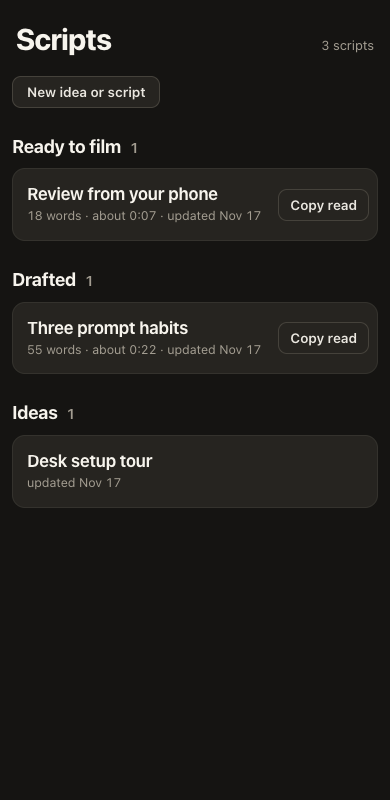
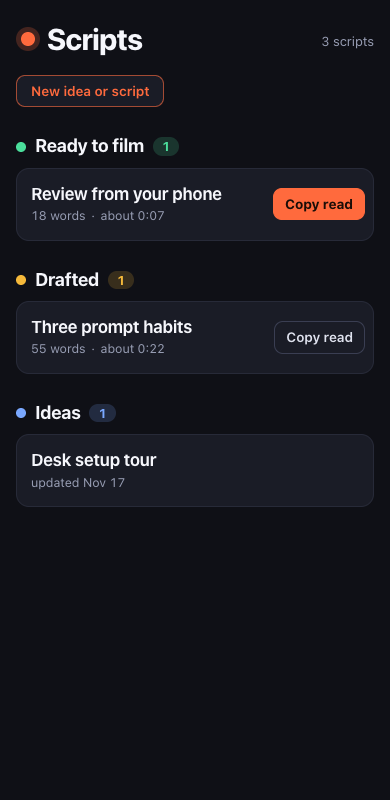
Add color: one accent, a color per status, and tinted notes and edits
The read is larger, statuses are color-coded (green approved, amber
draft, blue idea), and lines with a note or an edit carry a dot and a
tint in place of side stripes. The phone list keeps each script on one
line.

diff --git a/skills/reviewing-scripts/scripts/script_page.py b/skills/reviewing-scripts/scripts/script_page.py
@@ -539,44 +539,52 @@ def tailscale_name():
 CSS = """
 :root {
   color-scheme: light dark;
-  --canvas: light-dark(#f4f2ec, #151412); --rail: light-dark(#fbfaf7, #1d1c19); --card: light-dark(#ffffff, #262420);
-  --card-border: light-dark(#e3e0d8, #34322d); --hair: light-dark(#e0ddd5, #2f2d29); --strong-border: light-dark(#cfcbc0, #45423b);
-  --txt: light-dark(#26241e, #eae7e0); --strong-txt: light-dark(#15140f, #f7f4ed); --mute: light-dark(#6a665d, #a39d91);
-  --soft: light-dark(#ebe8e0, #2a2824); --input-bg: light-dark(#fdfcfa, #1a1916); --focus: light-dark(#26241e, #eae7e0);
-  --danger: light-dark(#a83527, #e08273); --btn-bg: light-dark(#15140f, #f7f4ed); --btn-fg: light-dark(#fbfaf7, #15140f);
-  --pin: light-dark(#8a6400, #e6ae0a); --mark: light-dark(#ffe59a, #5c4a0e); --edit: light-dark(#256b43, #86cfa2);
-  --new: light-dark(#245f9e, #86b8ea); --target: 30px;
-  --lift: 0 10px 28px -18px rgb(0 0 0 / .55);
-  scrollbar-color: var(--strong-border) transparent; accent-color: var(--pin);
+  --canvas: light-dark(#f5f4f0, #0f1016); --rail: light-dark(#fbfaf8, #14151d); --card: light-dark(#ffffff, #1a1c26);
+  --card-border: light-dark(#e2e0da, #272a38); --hair: light-dark(#dedcd5, #232633); --strong-border: light-dark(#c9c6bd, #3a3e52);
+  --txt: light-dark(#23242b, #dfe2ee); --strong-txt: light-dark(#101116, #f6f7fc); --mute: light-dark(#5c6070, #979db3);
+  --soft: light-dark(#eceae4, #1d1f2a); --input-bg: light-dark(#fdfdfb, #11121a); --focus: light-dark(#23242b, #dfe2ee);
+  --accent: light-dark(#cf3d14, #ff6a3d); --on-accent: light-dark(#ffffff, #1a0d07);
+  --go: light-dark(#157347, #4ade9b); --pin: light-dark(#8a6100, #f5b93a); --new: light-dark(#2757c4, #7aa8ff);
+  --edit: var(--go); --danger: light-dark(#a83527, #ff8f7d); --mark: light-dark(#ffe08a, #6b5210);
+  --btn-bg: var(--accent); --btn-fg: var(--on-accent); --role: var(--mute); --target: 30px;
+  --lift: 0 10px 28px -18px rgb(0 0 0 / .6);
+  scrollbar-color: var(--strong-border) transparent; accent-color: var(--accent);
 }
+[data-role="approved"] { --role: var(--go); } [data-role="draft"] { --role: var(--pin); } [data-role="idea"] { --role: var(--new); }
 @media (pointer: coarse) { :root { --target: 44px; } }
 * { box-sizing: border-box; }
-::selection { background: var(--mark); color: var(--strong-txt); }
+::selection { background: color-mix(in oklab, var(--accent) 38%, transparent); color: var(--strong-txt); }
 html { scroll-padding-top: 76px; -webkit-text-size-adjust: 100%; }
 body { margin: 0; background: var(--canvas); color: var(--txt); font: 15px/1.5 system-ui, -apple-system, "Segoe UI", Roboto, Helvetica, sans-serif; overflow-wrap: break-word; -webkit-font-smoothing: antialiased; }
 button, textarea, select { font: inherit; color: inherit; }
 button, select { min-block-size: var(--target); cursor: pointer; }
-textarea, input { caret-color: var(--pin); }
+textarea, input { caret-color: var(--accent); }
 :focus-visible { outline: 2px solid var(--focus); outline-offset: 2px; }
 a { color: inherit; }
 .top { position: sticky; top: 0; z-index: 5; display: flex; flex-wrap: wrap; align-items: center; gap: 6px 14px; padding: 12px max(20px, env(safe-area-inset-right)) 12px max(20px, env(safe-area-inset-left)); background: var(--canvas); border-bottom: 1px solid var(--hair); }
 .top h1 { flex: 1 1 240px; min-inline-size: 0; margin: 0; font-size: 19px; line-height: 1.25; font-weight: 700; letter-spacing: -0.015em; color: var(--strong-txt); text-wrap: balance; }
 .top.home { position: static; padding-block: 34px 6px; border-bottom: 0; align-items: baseline; }
-.top.home h1 { font-size: 34px; line-height: 1.1; font-weight: 750; letter-spacing: -0.03em; }
+.top.home h1 { display: flex; align-items: center; gap: 12px; font-size: 34px; line-height: 1.1; font-weight: 750; letter-spacing: -0.03em; }
+.top.home h1::before { content: ""; flex: none; inline-size: 14px; block-size: 14px; margin-inline-start: 5px; border-radius: 50%; background: var(--accent); box-shadow: 0 0 0 5px color-mix(in oklab, var(--accent) 22%, transparent); }
 .top.home, .list { max-inline-size: 760px; margin-inline: auto; }
 .back { display: inline-flex; align-items: center; gap: 7px; min-block-size: var(--target); padding: 0 4px; color: var(--mute); text-decoration: none; font-size: 13.5px; font-weight: 600; }
 .back::before { content: ""; inline-size: 7px; block-size: 7px; border-inline-start: 2px solid; border-block-end: 2px solid; rotate: 45deg; }
 .back:hover { color: var(--strong-txt); }
 .meta { color: var(--mute); font-size: 13px; white-space: nowrap; font-variant-numeric: tabular-nums; }
-select { padding: 3px 10px; border: 1px solid var(--strong-border); border-radius: 999px; background: var(--card); font-size: 13px; font-weight: 650; }
-select:hover { border-color: var(--mute); }
+select { padding: 3px 10px; border: 1px solid color-mix(in oklab, var(--role) 55%, transparent); border-radius: 999px; background: color-mix(in oklab, var(--role) 14%, var(--card)); color: var(--role); font-size: 13px; font-weight: 700; }
+select:hover { border-color: var(--role); }
+select option { color: var(--txt); background: var(--card); }
 .wrap { display: grid; grid-template-columns: minmax(0, 1fr) 360px; }
 .doc { min-inline-size: 0; inline-size: 100%; max-inline-size: 800px; margin: 0 auto; padding: 20px 24px 120px; }
 .h { margin: 44px 0 10px; padding: 16px 12px 0 26px; border-top: 1px solid var(--hair); font-size: 12px; font-weight: 700; letter-spacing: 0.09em; text-transform: uppercase; color: var(--mute); }
 .h:first-child { margin-top: 4px; padding-top: 0; border-top: 0; }
+.h.readh { color: var(--accent); }
 .line { position: relative; margin: 2px 0; padding: 7px 12px 7px 26px; border-radius: 9px; cursor: pointer; }
 .line:hover { background: var(--soft); }
-.line.active { background: var(--card); box-shadow: 0 0 0 1px var(--strong-border), var(--lift); cursor: default; }
+.read:hover { background: color-mix(in oklab, var(--accent) 9%, transparent); }
+.line.active, .read.active { background: var(--card); box-shadow: 0 0 0 1.5px var(--accent), var(--lift); cursor: default; }
+.line.noted:not(.active) { background: color-mix(in oklab, var(--pin) 8%, transparent); }
+.line.edited:not(.active) { background: color-mix(in oklab, var(--edit) 8%, transparent); }
 .t { margin: 0; font-size: 14px; color: var(--mute); text-wrap: pretty; white-space: pre-wrap; }
 .line:hover .t, .line.active .t { color: var(--txt); }
 .read .t, .read:hover .t, .read.active .t { font-size: 22px; line-height: 1.42; font-weight: 500; letter-spacing: -0.012em; color: var(--strong-txt); }
@@ -592,7 +600,7 @@ mark { background: var(--mark); color: inherit; border-radius: 4px; padding: 1px
 .tag.edit { color: var(--edit); } .tag.new { color: var(--new); } .tag.note { color: var(--pin); }
 .acts, .foot { display: flex; flex-wrap: wrap; align-items: center; gap: 8px; margin-top: 10px; }
 .btn { padding: 5px 14px; border: 1px solid var(--strong-border); border-radius: 9px; background: var(--card); font-size: 13.5px; font-weight: 600; }
-.btn:hover { border-color: var(--mute); box-shadow: var(--lift); }
+.btn:hover { border-color: var(--accent); box-shadow: var(--lift); }
 .btn:active { scale: 0.97; }
 .btn:disabled { opacity: .55; cursor: default; box-shadow: none; scale: none; }
 .btn.primary { border-color: var(--btn-bg); background: var(--btn-bg); color: var(--btn-fg); font-weight: 700; }
@@ -602,9 +610,9 @@ mark { background: var(--mark); color: inherit; border-radius: 4px; padding: 1px
 .push { margin-inline-start: auto; }
 textarea { display: block; inline-size: 100%; padding: 10px 12px; border: 1px solid var(--strong-border); border-radius: 9px; background: var(--input-bg); font-size: 16px; line-height: 1.5; resize: vertical; field-sizing: content; min-block-size: 3lh; }
 textarea::placeholder, input::placeholder { color: var(--mute); opacity: 1; }
-textarea:focus { outline: 2px solid var(--pin); outline-offset: 0; border-color: transparent; }
+textarea:focus { outline: 2px solid var(--accent); outline-offset: 0; border-color: transparent; }
 .box { margin-top: 10px; }
-.q { margin: 0 0 8px; padding: 6px 10px; border-radius: 7px; background: var(--soft); color: var(--txt); font-size: 13px; }
+.q { margin: 0 0 8px; padding: 6px 10px; border-radius: 7px; background: color-mix(in oklab, var(--pin) 14%, transparent); color: var(--txt); font-size: 13px; }
 .hint { color: var(--mute); font-size: 12px; }
 .rail { position: sticky; top: var(--top, 56px); align-self: start; display: flex; flex-direction: column; block-size: calc(100dvh - var(--top, 56px)); border-inline-start: 1px solid var(--hair); background: var(--rail); }
 .rail-scroll { flex: 1; min-block-size: 0; overflow-y: auto; padding: 20px 14px; }
@@ -612,19 +620,21 @@ textarea:focus { outline: 2px solid var(--pin); outline-offset: 0; border-color:
 .section { margin: 0; font-size: 17px; font-weight: 700; letter-spacing: -0.01em; color: var(--strong-txt); }
 .cards { display: grid; gap: 8px; margin-bottom: 14px; }
 .empty { margin: 0; padding: 4px; color: var(--mute); font-size: 13.5px; }
-.card { padding: 11px 13px; border: 1px solid var(--card-border); border-radius: 11px; background: var(--card); cursor: pointer; }
-.card:hover { border-color: var(--strong-border); box-shadow: var(--lift); }
-.card-head { display: flex; align-items: center; gap: 8px; margin-bottom: 5px; color: var(--mute); font-size: 12px; font-weight: 650; }
-.card-head::before { content: ""; flex: none; inline-size: 8px; block-size: 8px; border-radius: 50%; background: var(--pin); }
-.card.e .card-head::before { background: var(--edit); }
+.card { --c: var(--pin); padding: 11px 13px; border: 1px solid color-mix(in oklab, var(--c) 30%, var(--card-border)); border-radius: 11px; background: color-mix(in oklab, var(--c) 9%, var(--card)); cursor: pointer; }
+.card.e { --c: var(--edit); }
+.card:hover { border-color: var(--c); box-shadow: var(--lift); }
+.card-head { display: flex; align-items: center; gap: 8px; margin-bottom: 5px; color: var(--c); font-size: 12px; font-weight: 650; }
+.card-head::before { content: ""; flex: none; inline-size: 8px; block-size: 8px; border-radius: 50%; background: var(--c); }
+.card-head .btn { color: var(--mute); }
 .card p { margin: 0; font-size: 14px; white-space: pre-wrap; color: var(--strong-txt); }
 .card .was { color: var(--mute); text-decoration: line-through; }
 .card .ctx { color: var(--mute); font-size: 12.5px; margin-bottom: 5px; }
 .actions { display: grid; grid-template-columns: 1fr 1fr; gap: 8px; padding: 14px; border-top: 1px solid var(--hair); background: var(--rail); }
 .actions .btn { inline-size: 100%; padding: 11px 12px; border-radius: 11px; font-size: 15px; }
 .copy { position: relative; display: block; }
-.tip { position: absolute; inset-block-end: calc(100% + 8px); inset-inline-start: 50%; translate: -50% 4px; padding: 4px 10px; border-radius: 7px; background: var(--btn-bg); color: var(--btn-fg); font-size: 12.5px; font-weight: 650; font-variant-numeric: tabular-nums; white-space: nowrap; opacity: 0; pointer-events: none; }
+.tip { position: absolute; inset-block-end: calc(100% + 8px); inset-inline-start: 50%; translate: -50% 4px; padding: 4px 10px; border-radius: 7px; background: var(--strong-txt); color: var(--canvas); font-size: 12.5px; font-weight: 650; font-variant-numeric: tabular-nums; white-space: nowrap; opacity: 0; pointer-events: none; }
 [data-copied] + .tip, [data-failed] + .tip { opacity: 1; translate: -50% 0; }
+#count:not(:empty) { padding: 0 8px; border-radius: 999px; background: var(--accent); color: var(--on-accent); font-size: 12px; font-weight: 700; }
 #status { grid-column: 1 / -1; min-block-size: 1lh; color: var(--mute); font-size: 12.5px; text-align: center; }
 #selpop { position: fixed; inset: auto; margin: 0; padding: 0; border: 0; background: none; overflow: visible; }
 #selpop { display: none; }
@@ -653,29 +663,32 @@ textarea:focus { outline: 2px solid var(--pin); outline-offset: 0; border-color:
 }
 /* the list page */
 .new { margin: 14px 0 0; }
-.new > summary { display: inline-flex; align-items: center; list-style: none; }
+.new > summary { display: inline-flex; align-items: center; list-style: none; border-color: color-mix(in oklab, var(--accent) 60%, transparent); color: var(--accent); }
 .new > summary::-webkit-details-marker { display: none; }
 .new form { display: grid; gap: 6px; margin-top: 12px; padding: 16px; border: 1px solid var(--card-border); border-radius: 13px; background: var(--card); }
 .new label { color: var(--mute); font-size: 12.5px; font-weight: 650; }
 .new label + * { margin-bottom: 6px; }
 .new input { inline-size: 100%; min-block-size: var(--target); padding: 9px 12px; border: 1px solid var(--strong-border); border-radius: 9px; background: var(--input-bg); font: inherit; font-size: 16px; color: inherit; }
-.new input:focus { outline: 2px solid var(--pin); outline-offset: 0; border-color: transparent; }
+.new input:focus { outline: 2px solid var(--accent); outline-offset: 0; border-color: transparent; }
 .new textarea { min-block-size: 6lh; }
 .list { padding: 4px 20px 64px; }
 .group > summary, .group-head { display: flex; align-items: baseline; gap: 9px; margin: 34px 0 10px; padding: 0; font-size: 20px; line-height: 1.25; font-weight: 700; letter-spacing: -0.015em; color: var(--strong-txt); }
 .group > summary { cursor: pointer; min-block-size: var(--target); align-items: center; list-style: none; color: var(--mute); }
+.group-head::before, .group > summary::before { content: ""; flex: none; align-self: center; inline-size: 10px; block-size: 10px; border-radius: 50%; background: var(--role); }
 .group > summary::-webkit-details-marker { display: none; }
 .group > summary:hover, .group[open] > summary { color: var(--strong-txt); }
 .group > summary::after { content: ""; flex: none; inline-size: 8px; block-size: 8px; margin-inline-start: auto; margin-inline-end: 6px; border-inline-end: 2px solid; border-block-end: 2px solid; rotate: -45deg; }
 .group[open] > summary::after { rotate: 45deg; }
-.n { color: var(--mute); font-size: 14px; font-weight: 600; letter-spacing: 0; font-variant-numeric: tabular-nums; }
+.n { align-self: center; padding: 1px 9px; border-radius: 999px; background: color-mix(in oklab, var(--role) 18%, transparent); color: var(--role); font-size: 13px; font-weight: 700; letter-spacing: 0; font-variant-numeric: tabular-nums; }
 .item { display: flex; align-items: center; gap: 12px; margin: 8px 0; padding: 6px 10px 6px 18px; border: 1px solid var(--card-border); border-radius: 13px; background: var(--card); }
-.item:hover { border-color: var(--strong-border); box-shadow: var(--lift); }
+.item:hover { border-color: var(--role); box-shadow: var(--lift); }
+[data-role="approved"] .item .btn { border-color: var(--accent); background: var(--accent); color: var(--on-accent); font-weight: 700; }
 .item a { flex: 1; min-inline-size: 0; padding: 10px 0; text-decoration: none; }
 .item .title { display: block; color: var(--strong-txt); font-size: 17px; line-height: 1.3; font-weight: 650; letter-spacing: -0.01em; text-wrap: pretty; }
 .item .sub { display: block; margin-top: 2px; color: var(--mute); font-size: 13px; font-variant-numeric: tabular-nums; }
 .item .sub span { white-space: nowrap; }
-.item .waiting { padding: 1px 7px; border-radius: 999px; background: var(--mark); color: var(--strong-txt); font-weight: 650; }
+.item .sub span + span:not(.waiting)::before { content: "·"; margin-inline: .45em; }
+.item .waiting { margin-inline-start: .6em; padding: 1px 7px; border-radius: 999px; background: var(--mark); color: var(--strong-txt); font-weight: 650; }
 .item .copy { flex: none; }
 .item .tip { inset-inline-start: auto; inset-inline-end: 0; translate: 0 4px; }
 .item [data-copied] + .tip, .item [data-failed] + .tip { translate: none; }
@@ -685,6 +698,7 @@ textarea:focus { outline: 2px solid var(--pin); outline-offset: 0; border-color:
   .group > summary, .group-head { margin-top: 28px; font-size: 18px; }
   .item { gap: 8px; padding: 4px 8px 4px 14px; }
   .item .sub { font-size: 12.5px; }
+  .item .upd:not(:first-child) { display: none; }
   .item .btn { padding-inline: 11px; }
 }
 """
@@ -850,7 +864,7 @@ function setActive(i, m, q) {
 function renderDoc() {
   const doc = $("doc"); doc.textContent = "";
   for (const l of LINES) {
-    if (l.kind === "h") doc.append(el("h2", "h", l.text));
+    if (l.kind === "h") doc.append(el("h2", "h" + (l.text.replace(/[#*\\\s]/g, "").toLowerCase() === DATA.read ? " readh" : ""), l.text));
     else if (l.kind === "line") doc.append(lineEl(l));
   }
 }
@@ -969,7 +983,7 @@ $("send").onclick = async () => {
   }
 };
 $("state").onchange = async () => {
-  try { await post("/api/status", { id: DATA.id, status: $("state").value }); if (!busy()) reload(); else say("Status saved."); }
+  try { await post("/api/status", { id: DATA.id, status: $("state").value }); $("state").dataset.role = DATA.roles[$("state").value] || "other"; if (!busy()) reload(); else say("Status saved."); }
   catch { say("Couldn't save the status."); $("state").value = DATA.status; }
 };
 
@@ -1037,7 +1051,7 @@ SCRIPT_PAGE = HEAD + """<body>
     <a class="back" href="/">Scripts</a>
     <h1>__H1__</h1>
     <span class="meta">__META__</span>
-    <select id="state" aria-label="Status">__OPTIONS__</select>
+    <select id="state" aria-label="Status" data-role="__ROLE__">__OPTIONS__</select>
   </header>
   <div class="wrap">
     <main class="doc" id="doc"></main>
@@ -1083,6 +1097,11 @@ LIST_PAGE = HEAD + """<body>
 </body></html>"""
 
 
+def role(status):
+    """The color role of a status: approved (green), draft (amber), idea (blue), or other (neutral)."""
+    return {APPROVED: "approved", DRAFT: "draft", IDEA: "idea"}.get(status, "other")
+
+
 def js_data(obj):
     """JSON that is safe inside a <script> block: no '<' can close the tag or open a comment."""
     return json.dumps(obj, ensure_ascii=False).replace("<", "\\u003c").replace("\u2028", "\\u2028").replace("\u2029", "\\u2029")
@@ -1094,12 +1113,13 @@ def fill_page(page, **parts):
 
 
 def script_page(s, token, nonce):
-    data = {"id": s.id, "title": s.title, "status": s.status, "version": s.version, "token": token, "hooks": HOOKS_KEY, "lines": layout(s.lines)}
+    data = {"id": s.id, "title": s.title, "status": s.status, "version": s.version, "token": token, "hooks": HOOKS_KEY, "read": READ_KEY,
+            "roles": {st: role(st) for st in STATUSES}, "lines": layout(s.lines)}
     meta = f"{s.words} words · about {duration(s.words)}" if s.words else "No read yet"
     options = "".join(f'<option value="{st}"{" selected" if st == s.status else ""}>{html.escape(STATUS_LABEL[st])}</option>'
                       for st in STATUSES)
     return fill_page(SCRIPT_PAGE, TITLE=html.escape(s.title), CSS=CSS, NONCE=nonce, H1=html.escape(s.title), META=meta,
-                     OPTIONS=options, JS=SHARED_JS + SCRIPT_JS, DATA=js_data(data))
+                     OPTIONS=options, ROLE=role(s.status), JS=SHARED_JS + SCRIPT_JS, DATA=js_data(data))
 
 
 def list_version(desk):
@@ -1124,8 +1144,8 @@ def list_page(desk, token, nonce):
             sub = [f"{s.words} words", f"about {duration(s.words)}"] if full else []
             if s.meta.get("updated"):
                 sub.append("updated " + html.escape(short_date(s.meta["updated"])))
-            sub = [f"<span>{x}</span>" for x in sub]
-            note = f' · <span class="waiting">{waiting[s.id]} sent, waiting on the agent</span>' if s.id in waiting else ""
+            sub = ['<span class="upd">' + x + "</span>" if x.startswith("updated ") else f"<span>{x}</span>" for x in sub]
+            note = f'<span class="waiting">{waiting[s.id]} sent, waiting on the agent</span>' if s.id in waiting else ""
             copy = ""
             if full:
                 reads[s.id] = {"text": s.teleprompter, "label": s.copied}
@@ -1133,12 +1153,12 @@ def list_page(desk, token, nonce):
                         f'aria-label="Copy the read for {html.escape(s.title, quote=True)}">Copy read</button>'
                         f'<span class="tip" role="status"></span></span>')
             items.append(f'<div class="item"><a href="/s/{s.id}"><span class="title">{html.escape(s.title)}</span>'
-                         f'<span class="sub">{" · ".join(sub)}{note}</span></a>{copy}</div>')
+                         f'<span class="sub">{"".join(sub)}{note}</span></a>{copy}</div>')
         head = f'{html.escape(STATUS_LABEL[st])} <span class="n">{len(rows)}</span>'
         if st in CFG["collapsed"]:
-            groups.append(f'<details class="group"><summary>{head}</summary>{"".join(items)}</details>')
+            groups.append(f'<details class="group" data-role="{role(st)}"><summary>{head}</summary>{"".join(items)}</details>')
         else:
-            groups.append(f'<section><h2 class="group-head">{head}</h2>{"".join(items)}</section>')
+            groups.append(f'<section data-role="{role(st)}"><h2 class="group-head">{head}</h2>{"".join(items)}</section>')
     if not groups:
         groups = ['<p class="empty">No scripts yet. The agent adds one with script_review.py new.</p>']
     return fill_page(LIST_PAGE, TITLE=html.escape(str(CFG["title"])), H1=html.escape(str(CFG["title"])), CSS=CSS, NONCE=nonce, META=f"{len(scripts)} scripts",
